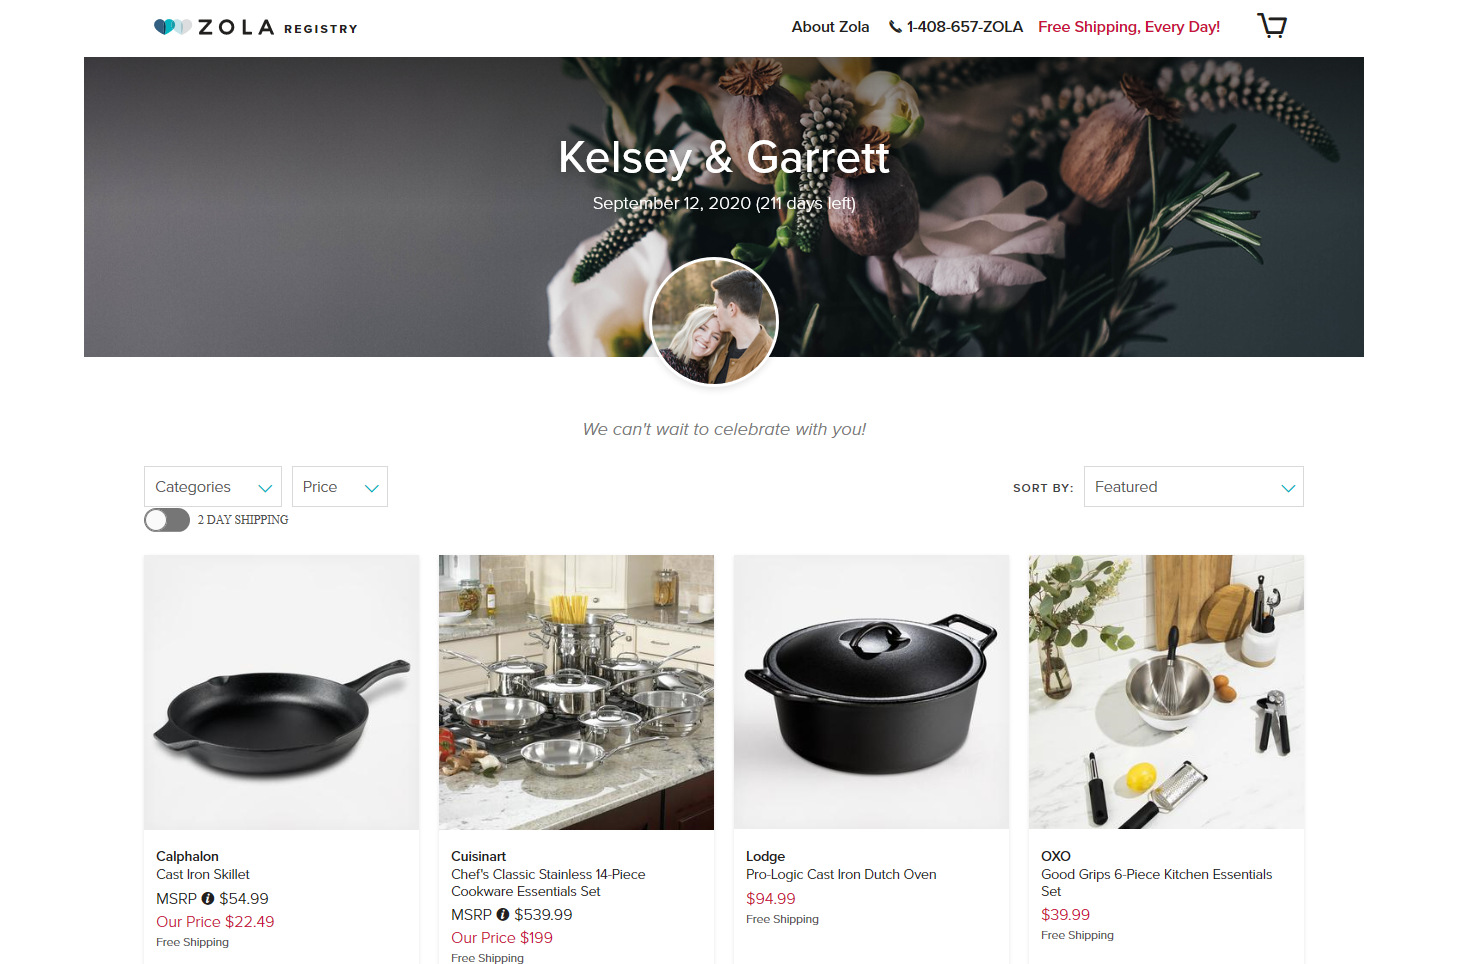
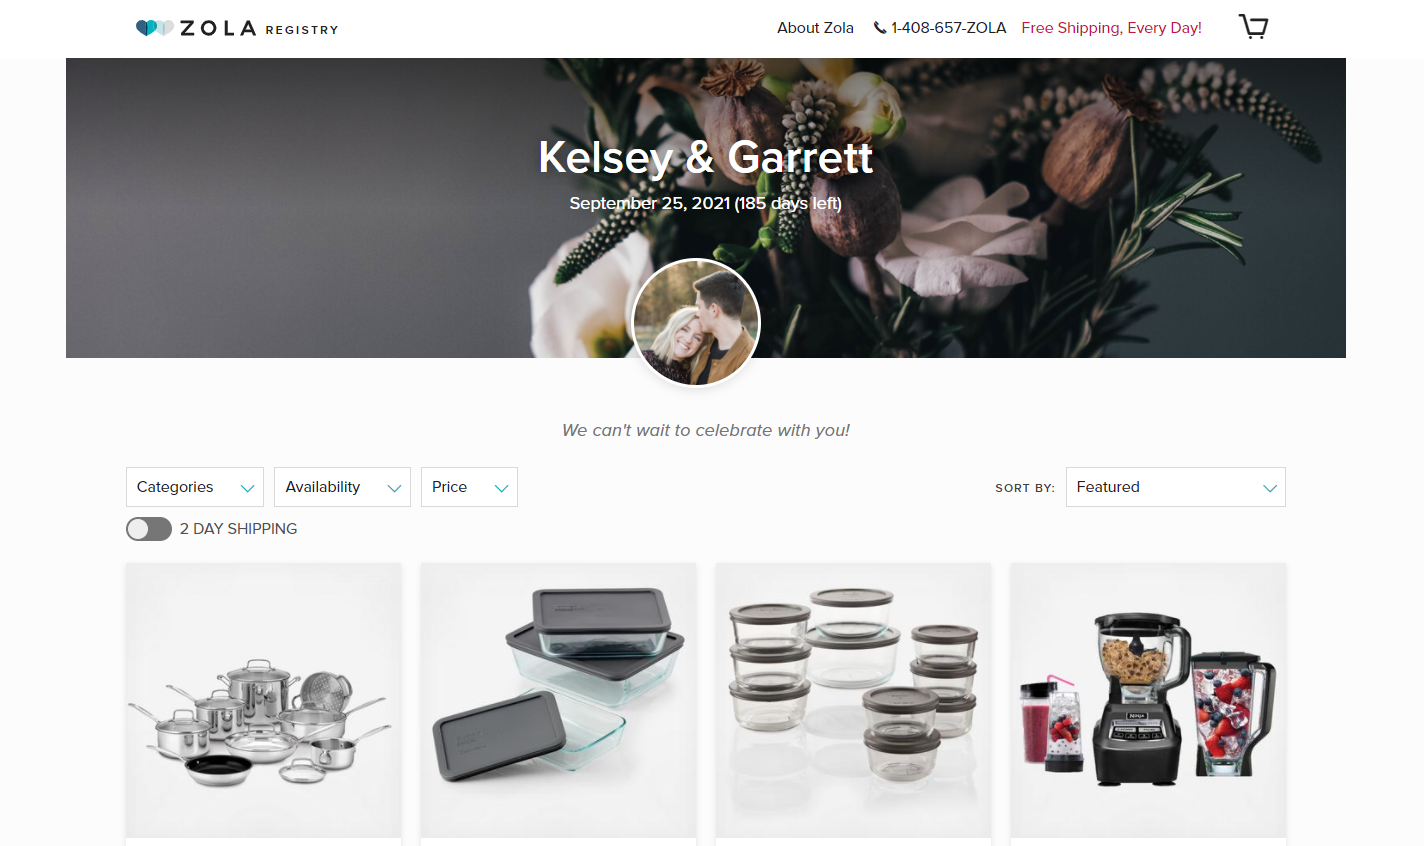
updating reception to playhouse and registry image

diff --git a/src/Content/Weekend/details.js b/src/Content/Weekend/details.js
@@ -1,35 +1,20 @@
 import venue from "../../Images/venue.PNG";
 import lakehouse from "../../Images/lakehouse.jpeg";
-import wineShoppe from "../../Images/wine_shoppe.png";
+import playhouse from "../../Images/playhouse.jpg";
 
 export const details = [
   {
-    title: "Lake Day",
-    content: `Come join us for a day at Lake Keowee on your way to Highlands.
-      There will be plenty of food and hopefully sunshine. We will be
-      serving lunch around 1:00pm. The lake house is a 2.5 hour drive from
-      Charlotte and 1 hour drive from Highlands.`,
-    image: lakehouse,
-    details: {
-      header: "Manning Family Lake House",
-      date: "Thursday, September 23",
-      time: "11:00am - 5:00pm",
-      location: "1999 Hampton Shores Drive | Seneca, SC 29672",
-      notes: "Bring your swim suits and BYOB",
-    },
-  },
-  {
     title: "Welcome Party",
-    content: `As a welcome to Highlands, please join us at Highlands Wine Shoppe
+    content: `As a welcome to Highlands, please join us at Highlands Playhouse
       located in town and within walking distance from your hotels. For
       those that need to drive, there is plenty of public parking along
-      Main Street.`,
-    image: wineShoppe,
+      Main and Oak Street.`,
+    image: playhouse,
     details: {
       header: "Highlands Wine Shoppe",
       date: "Friday, September 24",
-      time: "7:00pm - 10:00pm",
-      location: "269 Oak St | Highlands, NC 28741",
+      time: "6:00pm - 9:00pm",
+      location: "362 Oak St | Highlands, NC 28741",
       notes: "Dressy casual attire",
     },
   },
@@ -49,4 +34,19 @@ export const details = [
       notes: "Cocktail attire",
     },
   },
+  {
+    title: "Lake Day",
+    content: `Join us for a day at Lake Keowee on your way home from Highlands.
+      There will be plenty of food and hopefully sunshine. We will be
+      serving lunch around 1:00pm. The lake house is a 2.5 hour drive from
+      Charlotte and 1 hour drive from Highlands.`,
+    image: lakehouse,
+    details: {
+      header: "Manning Family Lake House",
+      date: "Sunday, September 26",
+      time: "11:00am - 5:00pm",
+      location: "1999 Hampton Shores Drive | Seneca, SC 29672",
+      notes: "Bring your swim suits and BYOB",
+    },
+  }
 ];

diff --git a/src/Content/Registry/Registry.jsx b/src/Content/Registry/Registry.jsx
@@ -1,7 +1,7 @@
 import React from "react";
 import Grid from "@material-ui/core/Grid";
 import Zoom from "@material-ui/core/Zoom";
-import registry from "../../Images/Registry/registry.PNG";
+import registry from "../../Images/Registry/registry.png";
 import { styles } from "./styles";
 import "./registry.css";
 
